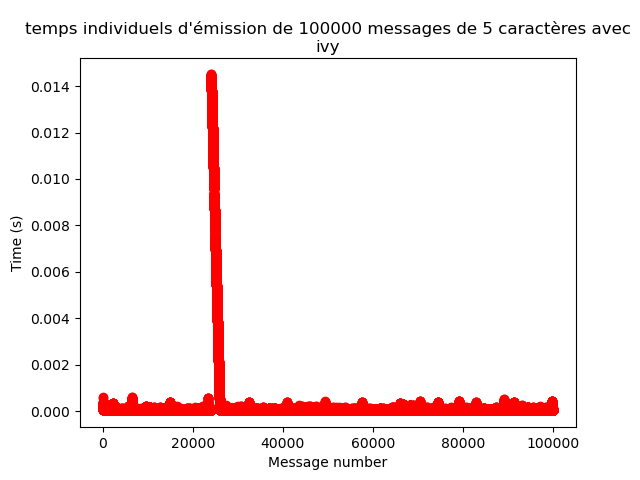
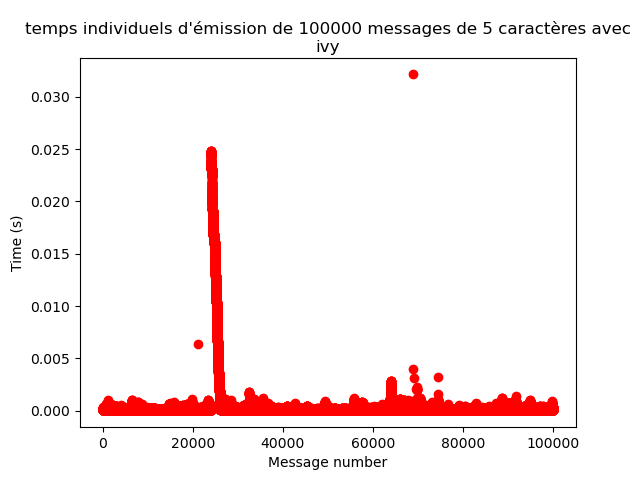
zeromq avec regexp

diff --git a/ivy_protocol.py b/ivy_protocol.py
@@ -87,7 +87,7 @@ class IvyProtocol(AbstractProtocol):
         #self.lprint('Received from %r: [%s] ', agent, larg[0])
         t1= time.time()
         self.msg = larg[0]
-        #print(larg[0])
+        print(larg[0])
         tmp = [self.id, larg[0], t1]
         self.plt_data.append(tmp)  
         self.id+=1
@@ -95,7 +95,7 @@ class IvyProtocol(AbstractProtocol):
     def onmsgproc2(self, agent, *larg):
         t1= time.time()
         self.msg = larg[self.id]
-        tmp = [self.id, larg[:20],t1, larg[-1]]
+        tmp = [self.id, larg[:50],t1, larg[-1]]
         self.plt_data.append(tmp)
         self.id+=1
         self.pop_hello = False
@@ -106,10 +106,12 @@ class IvyProtocol(AbstractProtocol):
     def receive_message(self,message_count,queue):
         print("bind")
         IvyBindMsg(self.onmsgproc, '(.*)')
-        #IvyBindMsg(self.onmsgproc2, 'flag0=(\S*) flag1=(\S*) flag2=(\S*) flag3=(\S*) flag4=(\S*) flag5=(\S*) flag6=(\S*) flag7=(\S*) flag8=(\S*) flag9=(\S*) flag10=(\S*) flag11=(\S*) flag12=(\S*) flag13=(\S*) flag14=(\S*) flag15=(\S*) flag16=(\S*) flag17=(\S*) flag18=(\S*) flag19=(\S*) flag20=(\S*) flag21=(\S*) flag22=(\S*) flag23=(\S*) flag24=(\S*) flag25=(\S*) flag26=(\S*) flag27=(\S*) flag28=(\S*) flag29=(\S*) flag30=(\S*) flag31=(\S*) flag32=(\S*) flag33=(\S*) flag34=(\S*) flag35=(\S*) flag36=(\S*) flag37=(\S*) flag38=(\S*) flag39=(\S*) flag40=(\S*) flag41=(\S*) flag42=(\S*) flag43=(\S*) flag44=(\S*) flag45=(\S*) flag46=(\S*) flag47=(\S*) flag48=(\S*) flag49=(\S*) flag50=(\S*) flag51=(\S*) flag52=(\S*) flag53=(\S*) flag54=(\S*) flag55=(\S*) flag56=(\S*) flag57=(\S*) flag58=(\S*) flag59=(\S*) flag60=(\S*) flag61=(\S*) flag62=(\S*) flag63=(\S*) flag64=(\S*) flag65=(\S*) flag66=(\S*) flag67=(\S*) flag68=(\S*) flag69=(\S*) flag70=(\S*) flag71=(\S*) flag72=(\S*) flag73=(\S*) flag74=(\S*) flag75=(\S*) flag76=(\S*) flag77=(\S*) flag78=(\S*) flag79=(\S*) flag80=(\S*) flag81=(\S*) flag82=(\S*) flag83=(\S*) flag84=(\S*) flag85=(\S*) flag86=(\S*) flag87=(\S*) flag88=(\S*) flag89=(\S*) flag90=(\S*) flag91=(\S*) flag92=(\S*) flag93=(\S*) flag94=(\S*) flag95=(\S*) flag96=(\S*) flag97=(\S*) flag98=(\S*) flag99=(\S*) #(\S*)')
+        #IvyBindMsg(self.onmsgproc2, 'flag0=(\S*) flag1=(\S*) flag2=(\S*) flag3=(\S*) flag4=(\S*)  #(\S*)')
+        sleep(1)
+        
         queue.put("RECEIVER_READY")
 
-        print(queue.get())
+    
         while(self.send_end != "LAST_MESSAGE"):
             print(self.send_end)
             self.send_end = queue.get()

diff --git a/message_receiver.py b/message_receiver.py
@@ -1,7 +1,9 @@
+import re
 from time import sleep, time
 import time
 import matplotlib.pyplot as plt
 from statistics import mean
+
 
 
 class MessageReceiver:
@@ -36,6 +38,7 @@ class MessageReceiver:
             self.data = self.protocol_obj.receive_message(message_count,queue)
             self.protocol_obj.stopsocket()
             print(self.data)
+            print(len(self.data))
 
             if(flag):
                 if self.protocol != "ivy":
@@ -43,13 +46,24 @@ class MessageReceiver:
                         start_time = float(self.data[0][1].split("#")[1])
 
                         if self.data : 
-                            message, t0 = self.data[i][1].split("#")
-                            t0= float(t0)
-                            elements = message.split(" ")
+                            
+                            '''elements = message.split(" ")
                             elements.pop()
                             print(elements)
                             contenus = [element.split("=")[1].strip() for element in elements]
-                            print(contenus)
+                            print(contenus)'''
+                            pattern = r'flag0=(\S*) flag1=(\S*) flag2=(\S*) flag3=(\S*) flag4=(\S*) #(\S*)'
+                            match = re.search(pattern, self.data[i][1])
+                            
+                            if match:
+                                values = match.groups()
+                                values = values[:-1]
+                                print(values)
+                            else:
+                                print("no match")
+                            message, t0 = self.data[i][1].split("#")
+                            t0= float(t0)
+                            
                     print("Temps total de communication : ", (time.time() - start_time))
                 else:
                     

diff --git a/ingescape.py b/ingescape.py
@@ -1,0 +1,42 @@
+
+import sys
+import ingescape as igs
+
+def multiply_callback(iop_type, iop_name, value_type, value, my_data):
+    igs.info(f"From service, multiply {value} by 2 : {value * 2}")
+    igs.output_set_int("out", value * 2)
+
+#def multiply_service_callback(sender_agent_name, sender_agent_uuid, service_name, argument_list, token, my_data):
+#    igs.info(f"From input, multiply {argument_list[0]} by {argument_list[1]} : {argument_list[0]*argument_list[1]}")
+#    igs.service_call(sender_agent_uuid, "result", (argument_list[0]*argument_list[1]), "")
+
+if __name__ == "__main__":
+    if len(sys.argv) != 4:
+        print("usage: python3 ./main.py agent_name network_device port")
+        list_devices = igs.net_devices_list()
+        print("Use one of these devices :")
+        for device in list_devices:
+            print(f"    {device}")
+        exit(1)
+
+    igs.input_create("in2", igs.INTEGER_T, None)
+    igs.observe_input("in2", multiply_callback, None)
+    
+    igs.mapping_add("in2", "multiply", "out")
+    #igs_mapping_add("image", "ImagesProvider", "image")
+    
+    igs.output_create("out", igs.INTEGER_T, None)
+
+    #igs.service_init("multiply", multiply_service_callback, None)
+    #igs.service_arg_add("multiply", "a", igs.INTEGER_T)
+    #igs.service_arg_add("multiply", "b", igs.INTEGER_T)
+
+    igs.agent_set_name(sys.argv[1])
+    igs.set_command_line(sys.executable + " " + " ".join(sys.argv))
+
+    igs.start_with_device(sys.argv[2], int(sys.argv[3]))
+
+    # simple main loop used to wait for user to stop the agent.
+    input('')
+
+    igs.stop()

diff --git a/zeromq.py b/zeromq.py
@@ -22,7 +22,7 @@ class ZeroMQProtocol(AbstractProtocol):
         self.context = zmq.Context()
         if self.com == "PUB":
             self.socket = self.context.socket(zmq.PUB)
-            self.socket.setsockopt(zmq.SNDHWM, 2000000)
+            self.socket.setsockopt(zmq.SNDHWM,1000000)
             self.socket.bind("tcp://*:%s" % self.port)
             
 
@@ -30,7 +30,7 @@ class ZeroMQProtocol(AbstractProtocol):
 
         else:
             self.socket = self.context.socket(zmq.SUB)
-            self.socket.setsockopt(zmq.RCVHWM, 2000000) 
+            self.socket.setsockopt(zmq.RCVHWM, 1000000) 
             self.socket.connect("tcp://localhost:%s" % self.port)
             
         
@@ -53,6 +53,7 @@ class ZeroMQProtocol(AbstractProtocol):
         self.socket.setsockopt_string(zmq.SUBSCRIBE, "10002")
 
         for i in range(message_count):
+            #print(i)
             string = self.socket.recv()
             t1 = time.time()
             #topic, messagedata = string.split()

diff --git a/main_send.py b/main_send.py
@@ -43,9 +43,15 @@ def main_send(protocol, message_count, port,length, queue, logger, traitement, f
     logger.info('Démarrage du sender')
     
 
-    message = queue.get()
-    if message == "RECEIVER_READY":
+    recvrdy=""
+    while(recvrdy != "RECEIVER_READY"):
+            print(recvrdy)
+            recvrdy = queue.get()
+            print(recvrdy)
+
+    if recvrdy == "RECEIVER_READY":
         sleep(2)
+
 
         length_of_string = int(length)
         message_rand=""
@@ -63,7 +69,7 @@ def main_send(protocol, message_count, port,length, queue, logger, traitement, f
             start_time = time.time()
             message = str(message_rand) + str(start_time)
             #message = "hello =" + str(start_time)
-            print(message)
+            #print(message)
             protocol_obj.send_message(message)
             sleep(traitement)
 

diff --git a/main_receive.py b/main_receive.py
@@ -6,6 +6,7 @@ from zeromq import ZeroMQProtocol
 from ivy_protocol import IvyProtocol
 from kafka_protocol import KafkaProtocol
 from message_receiver import MessageReceiver
+import multiprocessing
 
 from time import sleep
 
@@ -32,10 +33,13 @@ def main_receive(protocol, message_count, port, length, queue, logger, flag):
 
     logger.info('Démarrage du receveur')
 
-
     #envoie de message aà l'autre process pour signaler que le receveur est prêt
     queue.put("RECEIVER_READY")
+   
 
+        
+        
+    
     receiver = MessageReceiver(protocol_obj, protocol,length, protocol)
     receiver.receive_messages(message_count, queue, flag)
     
